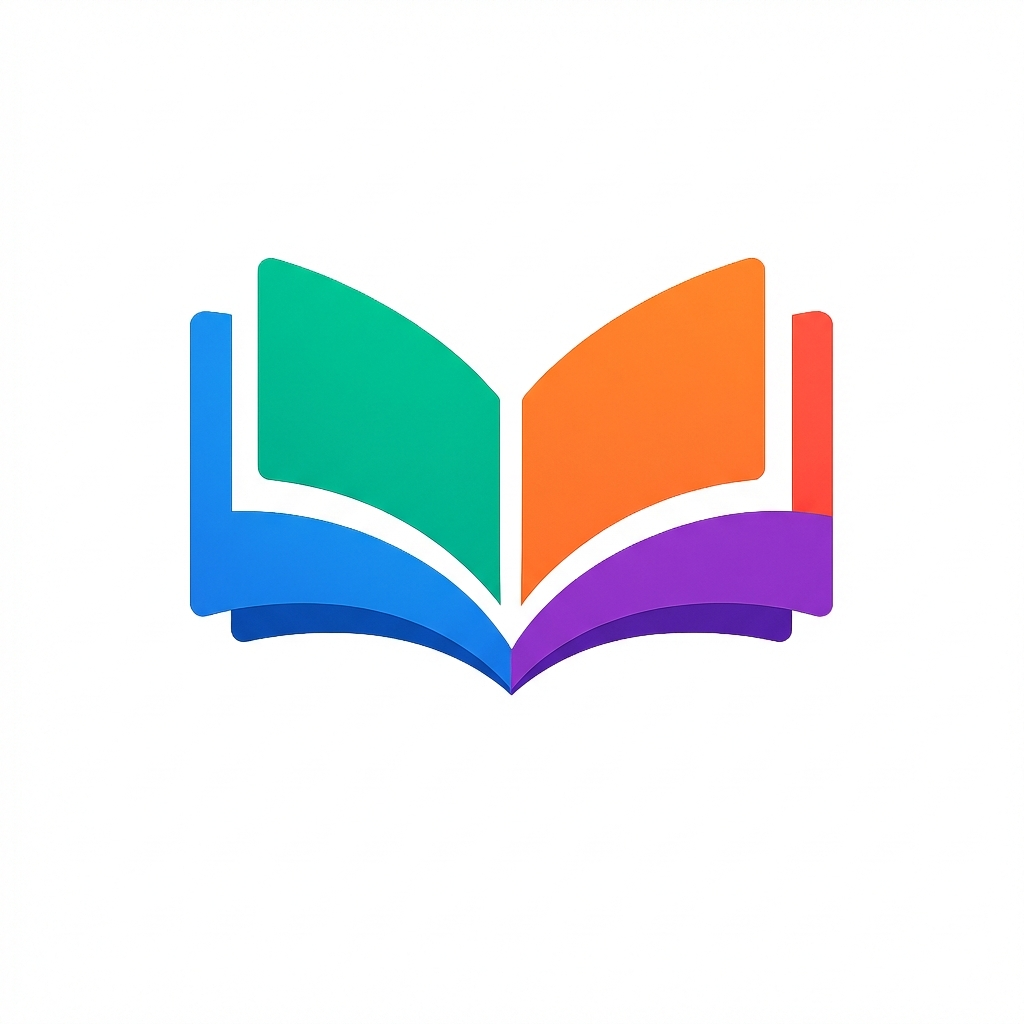
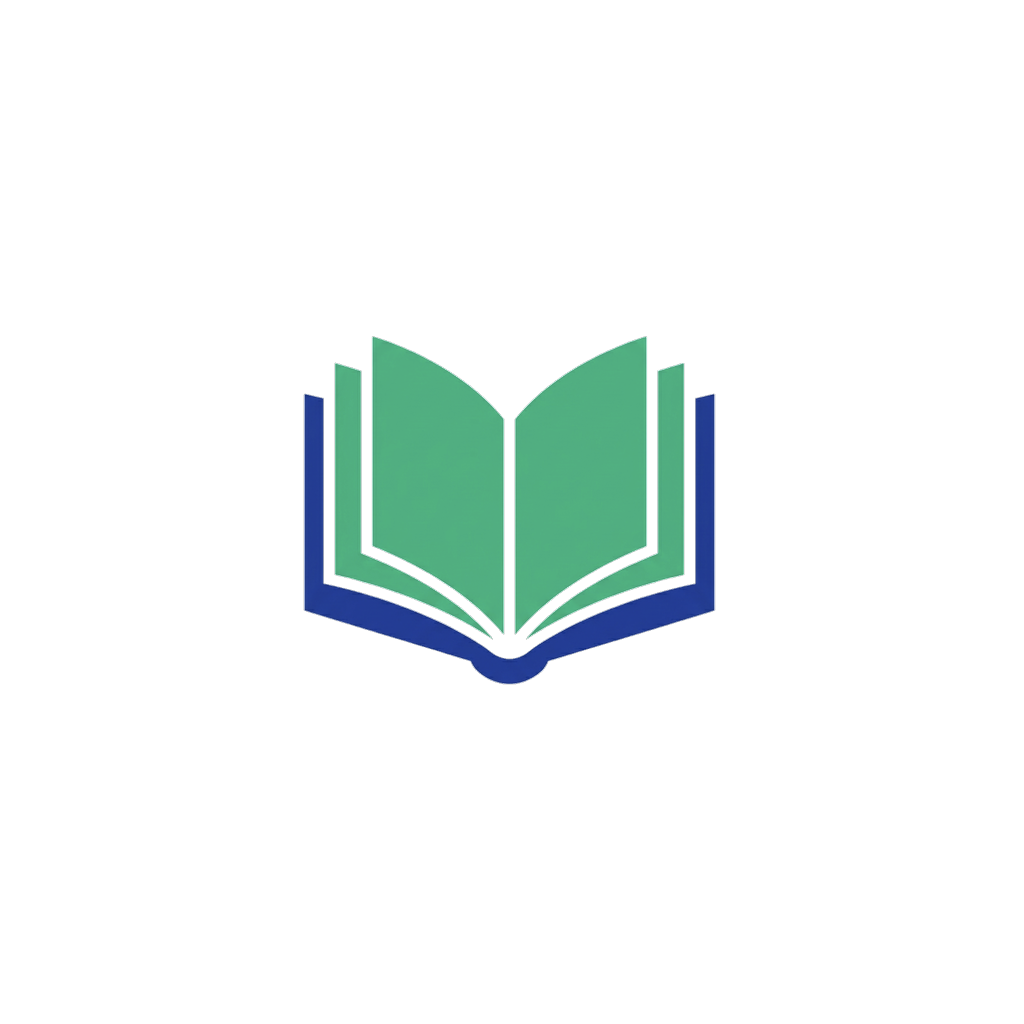
UPD : remove unused assets

Changed region(s): [[0.1875, 0.25, 0.8125, 0.6875]]

diff --git a/src/screens/OnboardingScreen.tsx b/src/screens/OnboardingScreen.tsx
@@ -16,7 +16,7 @@ interface OnboardingScreenProps {
 const OnboardingScreen: React.FC<OnboardingScreenProps> = ({ onGetStarted, onLogin }) => {
   const { t } = useTranslation();
   const { language, setLanguage, isRTL } = useLanguage();
-  const { typography, fontWeight} = useTypography();
+  const { typography, fontWeight } = useTypography();
   const insets = useSafeAreaInsets();
 
   const currentStyles = styles(typography, fontWeight, insets, isRTL);
@@ -49,13 +49,10 @@ const OnboardingScreen: React.FC<OnboardingScreenProps> = ({ onGetStarted, onLog
           </TouchableOpacity>
 
           <Image
-            source={require('../../assets/logo-icon.png')}
+            source={require('../../assets/logo-transparent.png')}
             style={currentStyles.logo}
             resizeMode="contain"
           />
-
-          {/* Empty view for header balancing if needed */}
-          <View style={{ width: 44 }} />
         </View>
 
         {/* Spacer to push content to bottom */}
@@ -82,7 +79,12 @@ const OnboardingScreen: React.FC<OnboardingScreenProps> = ({ onGetStarted, onLog
   );
 };
 
-const styles = (typography: any, fontWeight: any, insets: { top: number; bottom: number }, isRTL: boolean) =>
+const styles = (
+  typography: any,
+  fontWeight: any,
+  insets: { top: number; bottom: number },
+  isRTL: boolean,
+) =>
   StyleSheet.create({
     container: {
       flex: 1,
@@ -99,13 +101,16 @@ const styles = (typography: any, fontWeight: any, insets: { top: number; bottom:
       zIndex: -1,
     },
     header: {
-      flexDirection: isRTL ? 'row-reverse' : 'row',
       alignItems: 'center',
-      justifyContent: 'space-between',
+      justifyContent: 'center', // Center the logo
+      flexDirection: 'row',
       marginTop: 20,
       paddingHorizontal: layout.screenPadding,
+      position: 'relative', // Need relative for absolute inner elements
     },
     languageButton: {
+      position: 'absolute',
+      ...(isRTL ? { right: layout.screenPadding } : { left: layout.screenPadding }),
       flexDirection: isRTL ? 'row-reverse' : 'row',
       alignItems: 'center',
       backgroundColor: 'rgba(255, 255, 255, 0.85)',
@@ -118,17 +123,18 @@ const styles = (typography: any, fontWeight: any, insets: { top: number; bottom:
       shadowOpacity: 0.1,
       shadowRadius: 4,
       elevation: 2,
+      zIndex: 10, // Ensure it's clickable over the header area
     },
     languageText: {
       ...typography('button'),
       fontSize: 14,
       color: '#1E3A8A',
-      ...fontWeight('700')
+      ...fontWeight('700'),
     },
     logo: {
       zIndex: 1,
-      width: 150, // Reduced from 400 to fit header properly
-      height: 40,
+      width: 120, // Unified size
+      height: 120,
     },
     spacer: {
       flex: 1,
@@ -163,7 +169,7 @@ const styles = (typography: any, fontWeight: any, insets: { top: number; bottom:
     link: {
       ...typography('button'),
       color: '#1E3A8A',
-      ...fontWeight('700')
+      ...fontWeight('700'),
     },
   });
 

diff --git a/src/screens/RegisterScreen.tsx b/src/screens/RegisterScreen.tsx
@@ -110,7 +110,7 @@ const RegisterScreen: React.FC<RegisterScreenProps> = ({ onNavigateToLogin, onBa
   const { t } = useTranslation();
   const common = useCommonStyles();
   const insets = useSafeAreaInsets();
-  const { typography, fontWeight} = useTypography();
+  const { typography, fontWeight } = useTypography();
   const isRTL = language === 'ar';
 
   const [gradesData, setGradesData] = useState<{ grades: any[] } | null>(null);
@@ -333,7 +333,16 @@ const RegisterScreen: React.FC<RegisterScreenProps> = ({ onNavigateToLogin, onBa
     }
   };
 
-  const currentStyles = styles(theme, common, fontSizes, spacing, borderRadius, isRTL, typography, fontWeight);
+  const currentStyles = styles(
+    theme,
+    common,
+    fontSizes,
+    spacing,
+    borderRadius,
+    isRTL,
+    typography,
+    fontWeight,
+  );
 
   const StepIndicator = () => (
     <View style={currentStyles.stepIndicatorContainer}>
@@ -386,7 +395,7 @@ const RegisterScreen: React.FC<RegisterScreenProps> = ({ onNavigateToLogin, onBa
       >
         <View style={currentStyles.header}>
           <Image
-            source={require('../../assets/logo-icon.png')}
+            source={require('../../assets/logo-transparent.png')}
             style={currentStyles.logo}
             resizeMode="contain"
           />
@@ -1072,7 +1081,7 @@ const styles = (
       paddingBottom: Math.max(common.insets.bottom, 20),
     },
     header: { alignItems: 'center', marginBottom: 32 },
-    logo: { width: 100, height: 100, marginBottom: 16 },
+    logo: { width: 120, height: 120, marginBottom: 24 },
     title: {
       ...typography('h1'),
       color: '#0F172A',
@@ -1083,7 +1092,7 @@ const styles = (
       ...typography('body'),
       color: '#64748B',
       textAlign: 'center',
-      ...fontWeight('500')
+      ...fontWeight('500'),
     },
     form: { marginBottom: 24 },
     languageButton: {
@@ -1143,7 +1152,7 @@ const styles = (
     linkText: {
       ...typography('button'),
       color: '#1E3A8A',
-      ...fontWeight('700')
+      ...fontWeight('700'),
     },
     backButton: {
       position: 'absolute',
@@ -1383,7 +1392,7 @@ const styles = (
       ...typography('button'),
       color: '#1E3A8A',
       fontSize: 18,
-      ...fontWeight('700')
+      ...fontWeight('700'),
     },
     genderContainer: {
       marginBottom: 16,

diff --git a/src/screens/LoginScreen.tsx b/src/screens/LoginScreen.tsx
@@ -46,7 +46,7 @@ const LoginScreen: React.FC<LoginScreenProps> = ({ onNavigateToRegister, onBack 
   const { language, setLanguage } = useLanguage();
   const { t } = useTranslation();
   const common = useCommonStyles();
-  const { typography, fontWeight} = useTypography();
+  const { typography, fontWeight } = useTypography();
   const insets = useSafeAreaInsets();
 
   const handleLogin = async () => {
@@ -67,7 +67,16 @@ const LoginScreen: React.FC<LoginScreenProps> = ({ onNavigateToRegister, onBack 
   };
 
   const isRTL = language === 'ar';
-  const currentStyles = styles(theme, common, fontSizes, spacing, borderRadius, isRTL, typography, fontWeight);
+  const currentStyles = styles(
+    theme,
+    common,
+    fontSizes,
+    spacing,
+    borderRadius,
+    isRTL,
+    typography,
+    fontWeight,
+  );
 
   const isMobileValid = new RegExp('^01[0125][0-9]{8}$').test(mobile.trim());
   const isPasswordValid = password.length >= 8;
@@ -100,7 +109,7 @@ const LoginScreen: React.FC<LoginScreenProps> = ({ onNavigateToRegister, onBack 
       >
         <View style={currentStyles.header}>
           <Image
-            source={require('../../assets/logo-icon.png')}
+            source={require('../../assets/logo-transparent.png')}
             style={currentStyles.logo}
             resizeMode="contain"
           />
@@ -253,7 +262,7 @@ const styles = (
       ...typography('body'),
       color: '#64748B',
       textAlign: 'center',
-      ...fontWeight('500')
+      ...fontWeight('500'),
     },
     form: { marginBottom: 32 },
     inputWrapper: {
@@ -284,7 +293,7 @@ const styles = (
     forgotText: {
       ...typography('label'),
       color: theme.colors.primary,
-      ...fontWeight('600')
+      ...fontWeight('600'),
     },
     footer: {
       flexDirection: 'row',
@@ -297,7 +306,7 @@ const styles = (
     linkText: {
       ...typography('button'),
       color: '#1E3A8A',
-      ...fontWeight('700')
+      ...fontWeight('700'),
     },
     backButton: {
       position: 'absolute',
